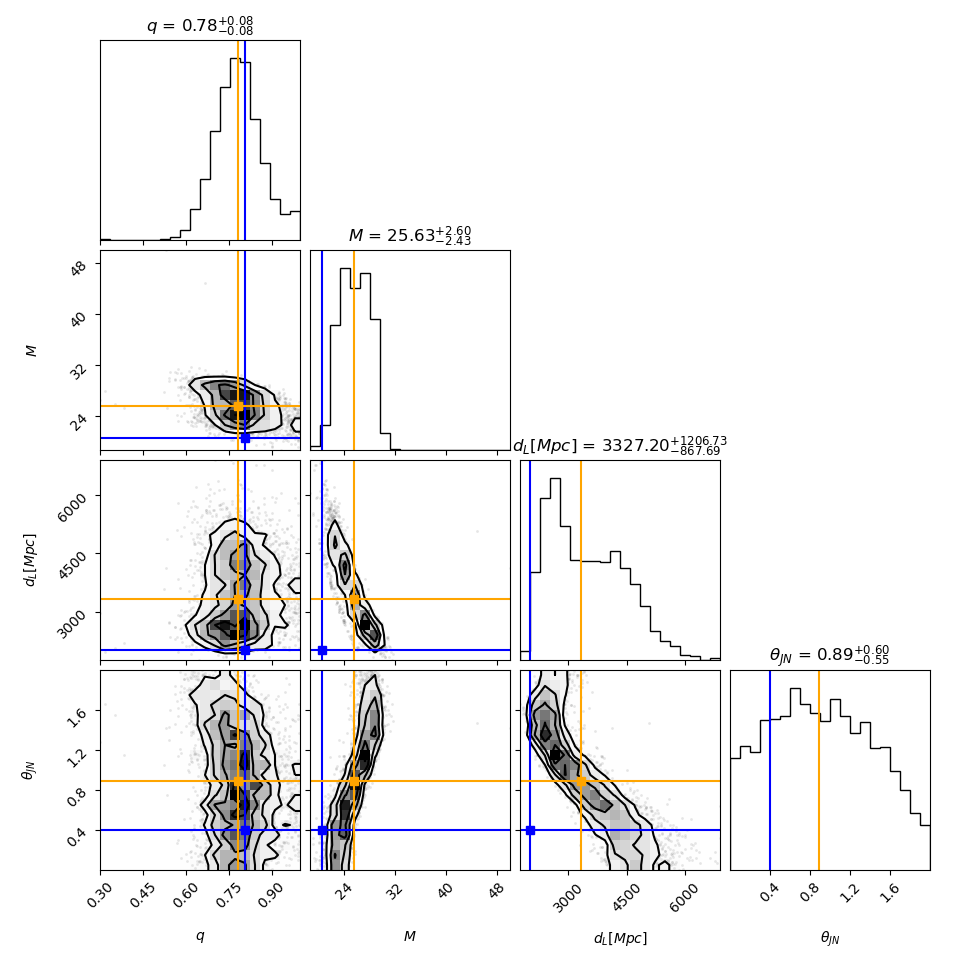
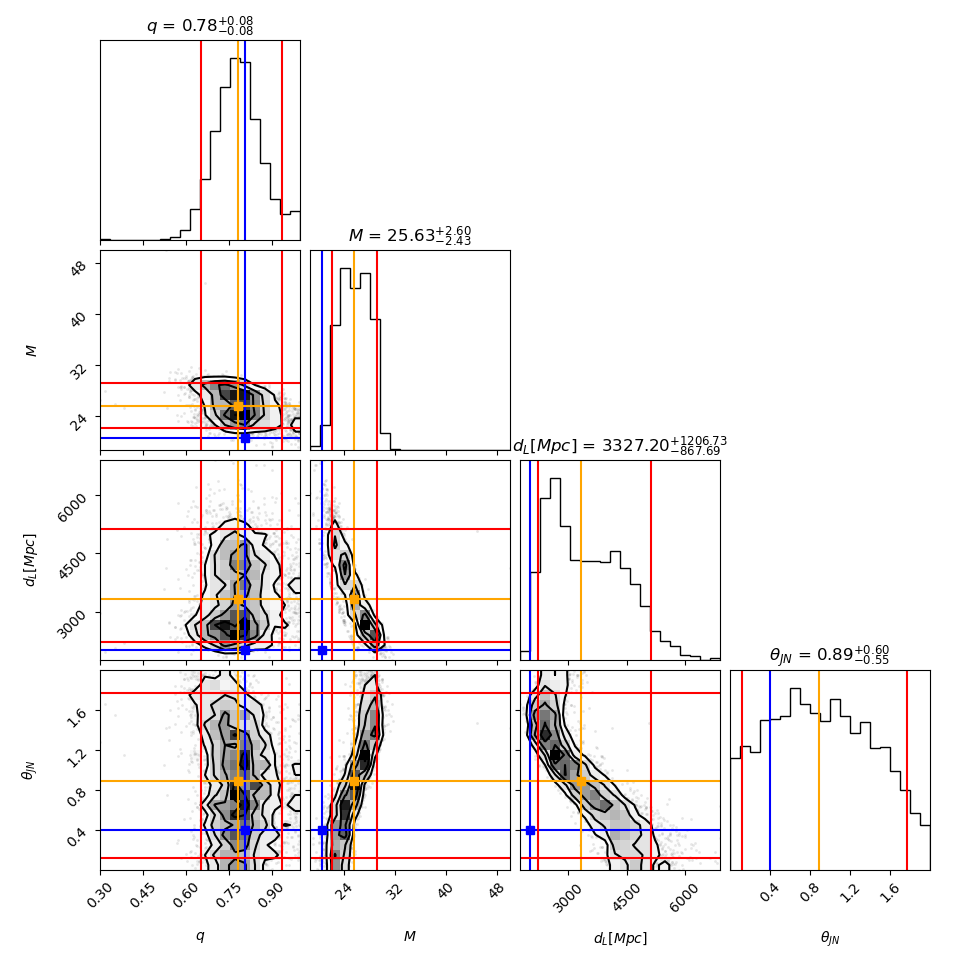
changed chirp mass to chirp mass source, added 90% credibility regions

diff --git a/main.py b/main.py
@@ -16,14 +16,20 @@ posteriors = ['q_post', 'm_post', 'dL_post', 'thetajn_post']
 
 post_dict = {}
 injected_dict = {}
+lower_quantiles_dict = {}
+upper_quantiles_dict = {}
 
 for i in range(dims):
     print('injected %s =' %parameters[i], f['injection_parameters'][parameters[i]][()])
     post_dict[posteriors[i]] = f['posterior'][parameters[i]][:]
     injected_dict[parameters[i]] = f['injection_parameters'][parameters[i]][()]
+    lower_quantiles_dict[parameters[i]] = np.quantile(post_dict[posteriors[i]], 0.05)
+    upper_quantiles_dict[parameters[i]] = np.quantile(post_dict[posteriors[i]], 0.95)
 
 data = np.array(list(post_dict.values())).T
 injected_values = np.array(list(injected_dict.values()))
+lower_quantiles = np.array(list(lower_quantiles_dict.values()))
+upper_quantiles = np.array(list(upper_quantiles_dict.values()))
 
 fig = corner.corner(data, labels=[
         r"$q$",
@@ -36,7 +42,11 @@ post_best_estimates = np.median(data, axis=0)
 
 corner.overplot_lines(fig, injected_values, color='blue')
 corner.overplot_points(fig, injected_values[None], marker='s', color='blue', label='injected value')
+
 corner.overplot_lines(fig, post_best_estimates, color='orange')
 corner.overplot_points(fig, post_best_estimates[None], marker='s', color='orange', label='best estimate')
+
+corner.overplot_lines(fig, lower_quantiles, color='red')
+corner.overplot_lines(fig, upper_quantiles, color='red')
 
 fig.savefig('corner_plot.png')
